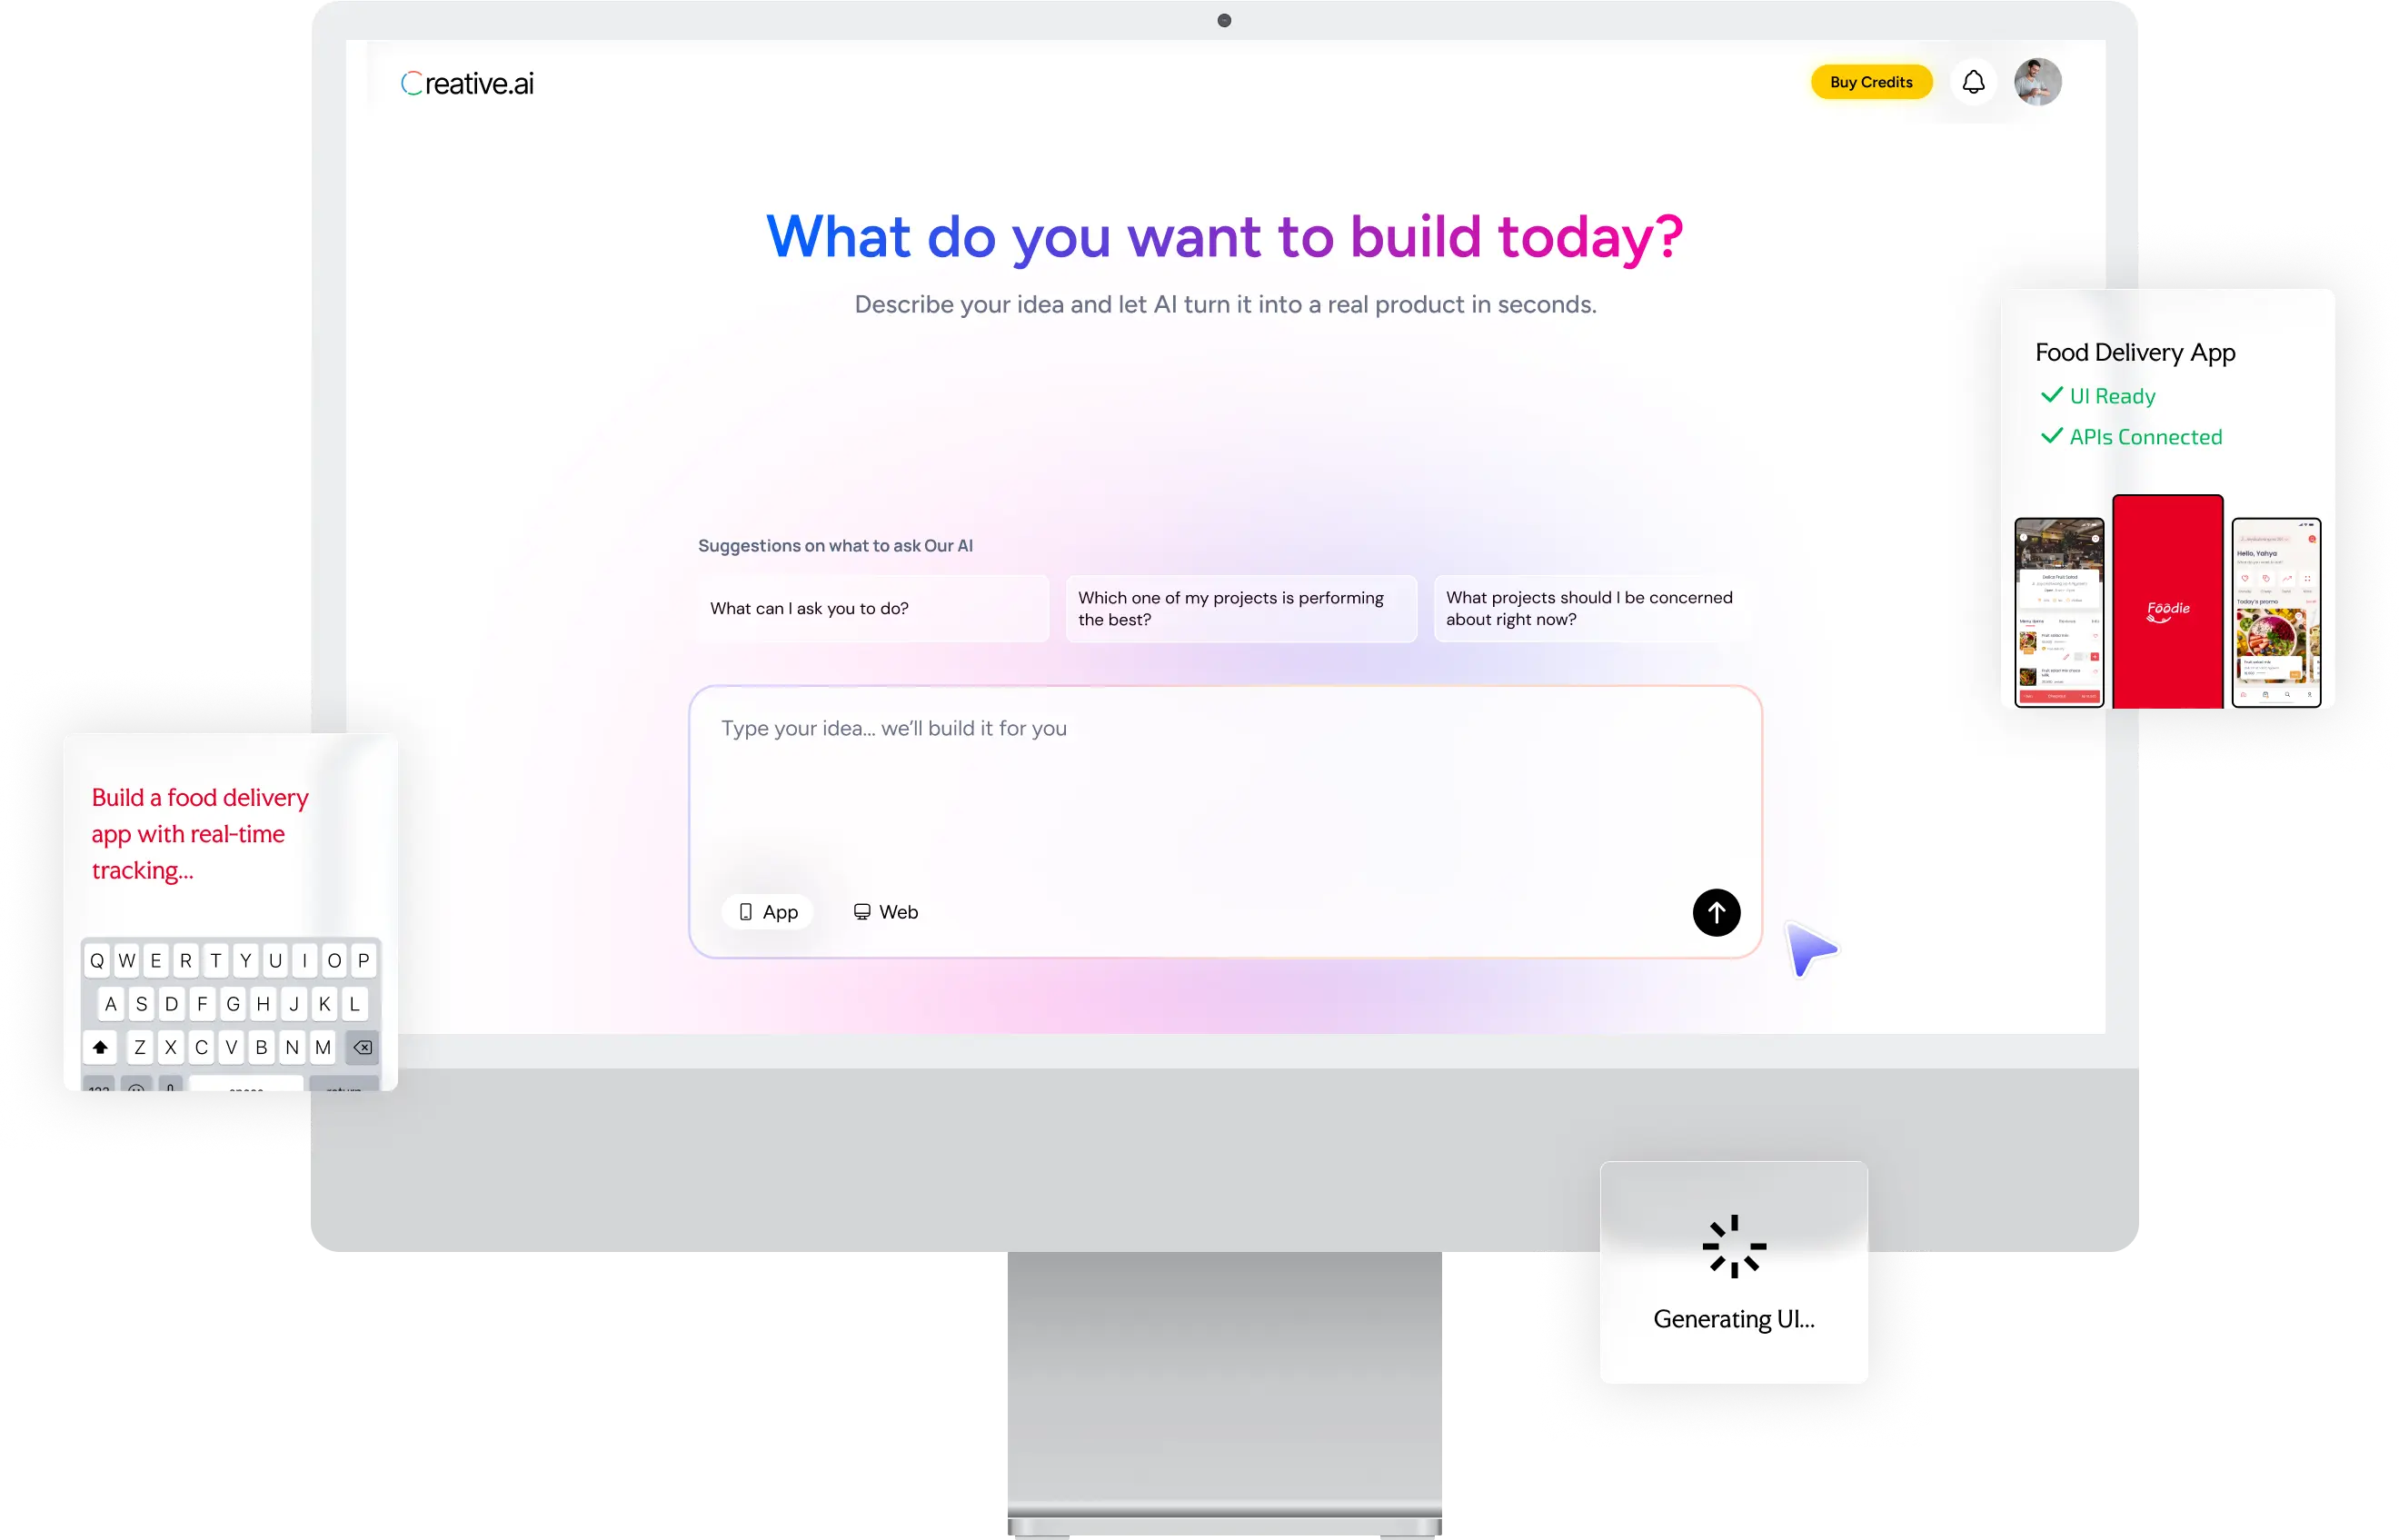
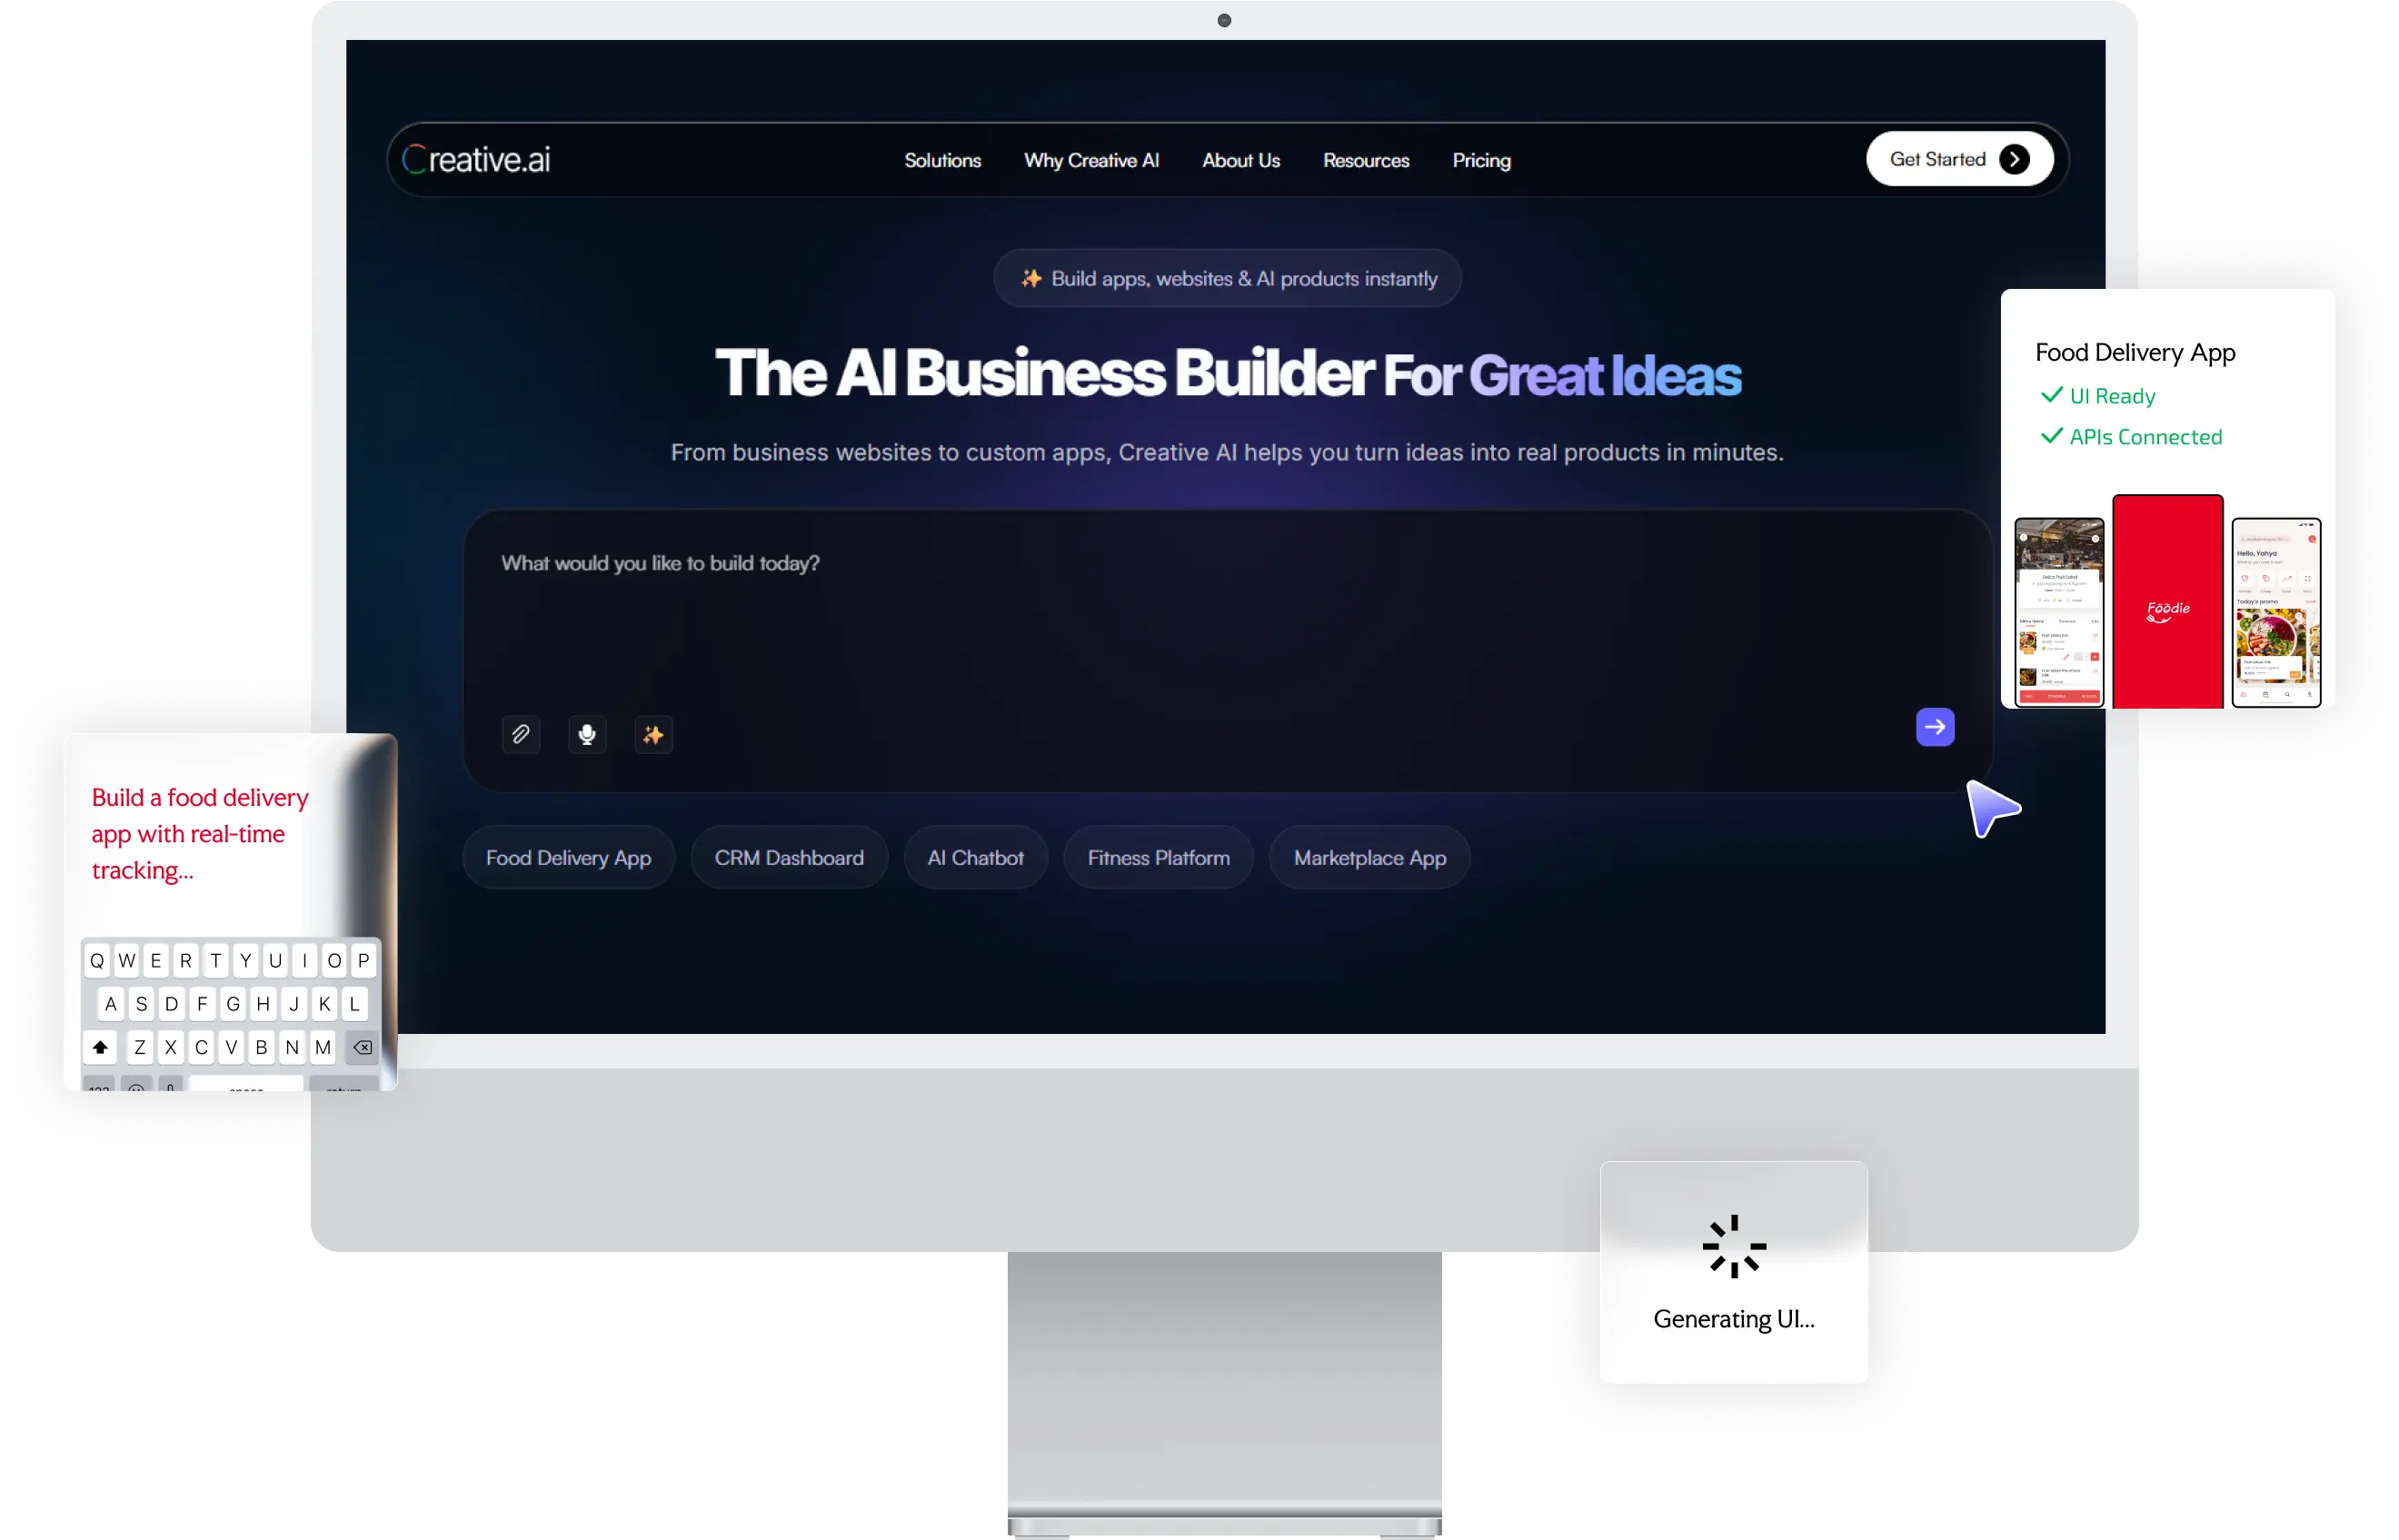
image change

diff --git a/src/assets/css/style.css b/src/assets/css/style.css
@@ -556,14 +556,14 @@ header::after {
 .ct_get_started_btn {
   padding: 8.5px 18px;
   border-radius: 100px;
-  background-color: #ffffff;
-  border: 1px solid #fff;
+  background-color: #5d5cff;
+  border: 1px solid #5d5cff;
   white-space: nowrap;
   display: flex;
   align-items: center;
   justify-content: center;
   gap: 10px;
-  color: #000;
+  color: #fff;
   font-family: Satoshi-medium;
   position: relative;
   transition: 0.4s ease all;
@@ -576,7 +576,7 @@ header::after {
   content: "";
   position: absolute;
   inset: 0px;
-  background-color: #5d5cff;
+  background-color: #fff;
   transform: scaleX(0);
   transform-origin: left;
   transition: 0.4s ease all;
@@ -588,15 +588,21 @@ header::after {
 }
 
 .ct_get_started_btn:hover {
-  color: #fff;
+  color: #000;
+  border-color: #fff;
 }
-
-.ct_get_started_btn:hover svg rect {
+.ct_get_started_btn svg rect{
   fill: #fff;
 }
+.ct_get_started_btn:hover svg rect {
+  fill: #5d5cff;
+}
 
-.ct_get_started_btn:hover svg path {
-  fill: #000;
+.ct_get_started_btn:hover svg path{
+  fill: #fff;
+}
+.ct_get_started_btn svg path {
+  fill: #5d5cff;
 }
 
 .ct_header_main.ct_sticky_menu {
@@ -609,6 +615,8 @@ header::after {
   left: 0px;
   right: 0px;
   z-index: 9999;
+  padding-top: 0px;
+
 }
 
 @keyframes slideDown {
@@ -2459,7 +2467,43 @@ input[type="radio"]:checked+.cti_option_btn span {
 .ct_header_main.ct_sticky_menu.et_main_header_344 {
   top: 40px;
 }
+.ct_sticky_menu header.container {
+    border-radius: 0px;
+    background-color: transparent;
+    box-shadow: none;
+    border: 0px;
 
+}
+.ct_header_main.ct_sticky_menu  {
+  background: #020202b5;
+  backdrop-filter: blur(20px);
+  -webkit-backdrop-filter: blur(20px);
+  
+}
+.ct_header_main.ct_sticky_menu header:after {
+  display: none;
+    
+}
+/* .ct_header_main.ct_sticky_menu:after {
+    content: "";
+    border-radius: inherit;
+    -webkit-mask-composite: xor;
+    pointer-events: none;
+    background: linear-gradient(#ffffff4d, #fff0);
+    padding: 1px;
+    position: absolute;
+    inset: 0;
+    -webkit-mask-image: linear-gradient(#fff 0 0), linear-gradient(#fff 0 0);
+    -webkit-mask-position: 0 0, 0 0;
+    -webkit-mask-size: auto, auto;
+    -webkit-mask-repeat: repeat, repeat;
+    -webkit-mask-clip: content-box, border-box;
+    -webkit-mask-origin: content-box, border-box;
+    -webkit-mask-composite: xor;
+    mask-composite: exclude;
+    -webkit-mask-source-type: auto, auto;
+    mask-mode: match-source, match-source;
+} */
 @media screen and (max-width:575px){
   .ct_get_started_btn{
     padding: 6px 8px;